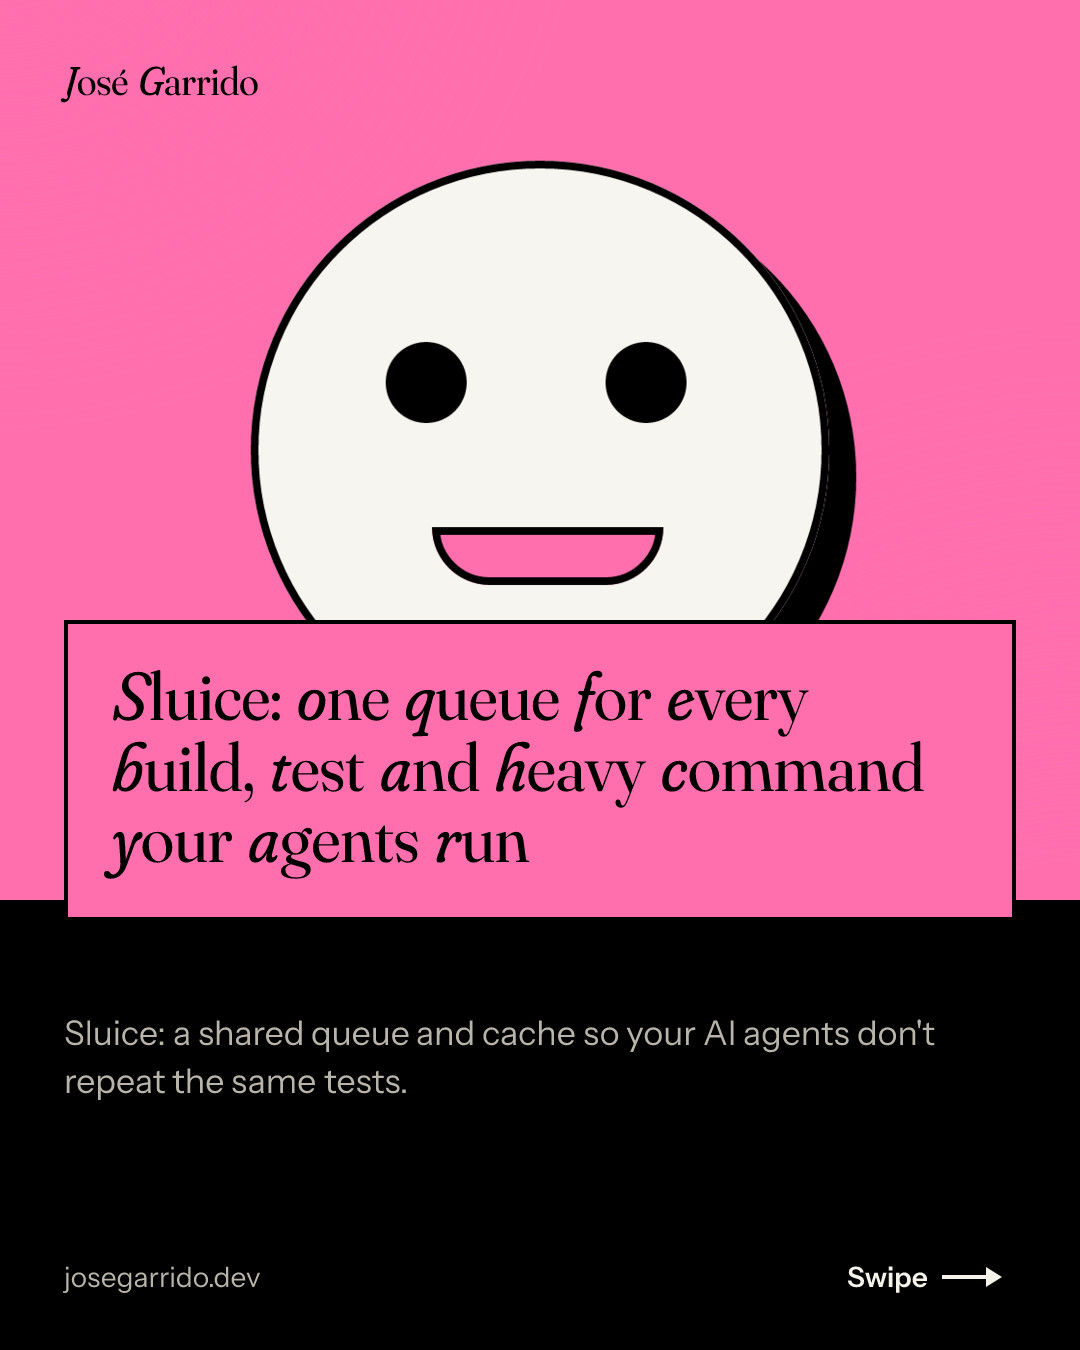
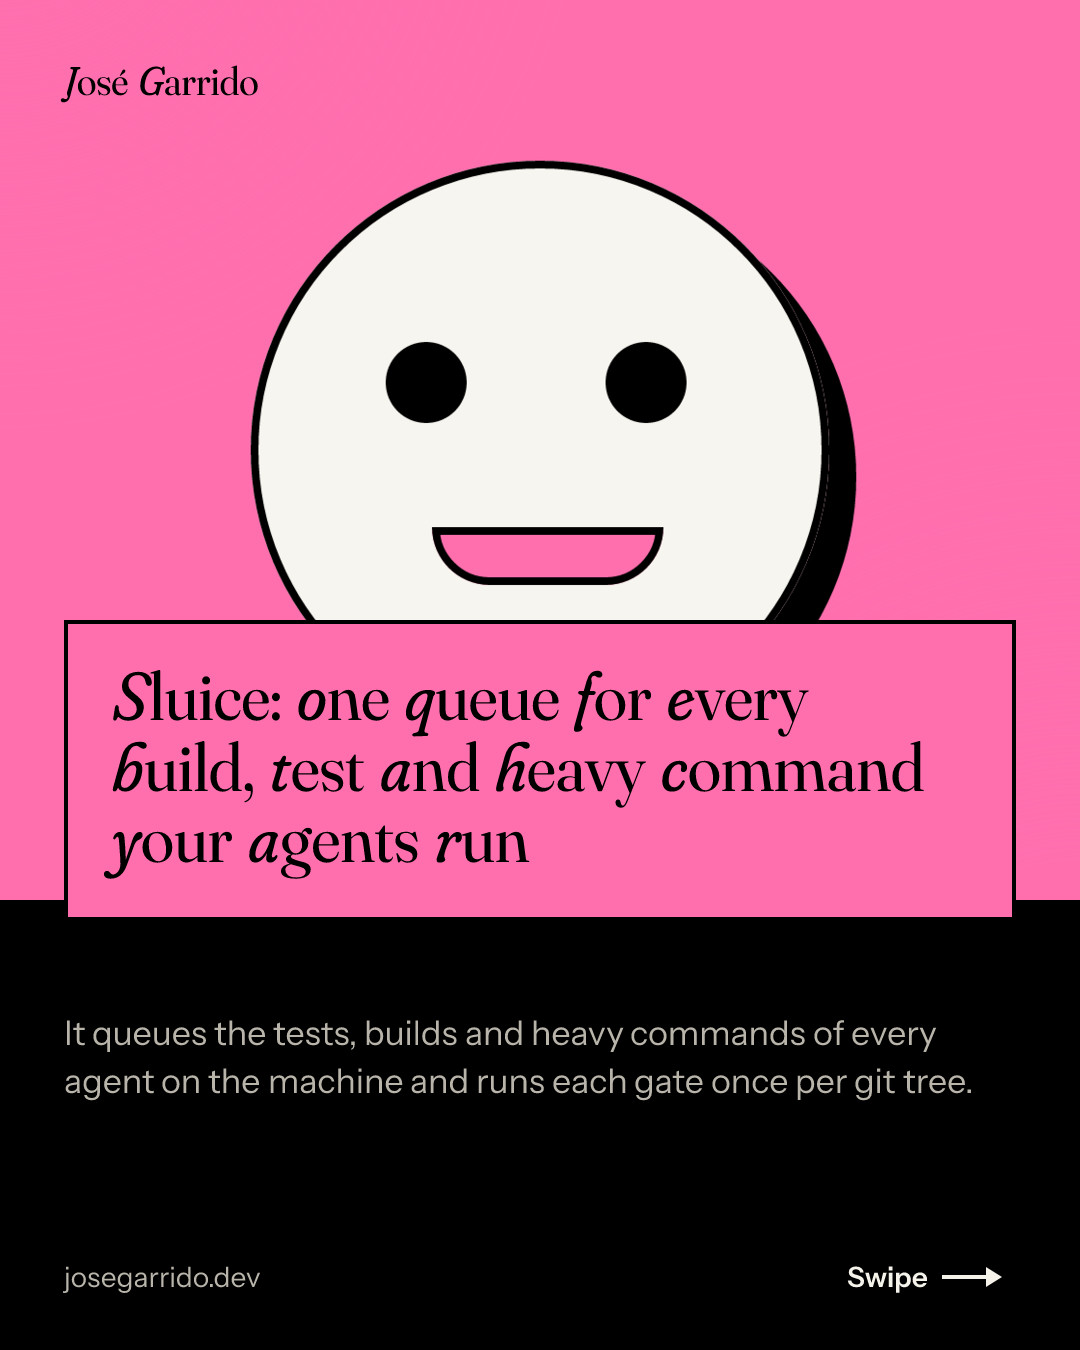
fix(article): the Sluice article opens with many agents in parallel, without Digio or the CI caveat
The "five agents, five suites at once" opener is gone from the posts, the
pack and every channel draft. The article, LinkedIn and the newsletters
open with working with several AI agents in parallel until the machine ran
out of memory; the short channels with the hidden cost of orchestrating
dozens of agents on one machine. The memory figures keep "with 5 agents
at once" where they are quoted.

The "doesn't replace your CI" line is removed everywhere, and the owner's
employer is no longer named. Channels that called Sluice a verification
queue and cache now say it queues the tests, builds and heavy commands of
every agent on the machine, and the channel posts quote backfilling as
about 4x less wait per minute of work (the article keeps its table).
Bluesky and Mastodon are trimmed to their limits. The Instagram cover and
the backfilling slide are re-rendered with Shipcast's renderer.

Changed region(s): [[0.0611, 0.7467, 0.8861, 0.8089]]

diff --git a/src/content/posts/es/sluice-una-cola-compartida-para-que-tus-agentes-no-repitan-los-tests.md b/src/content/posts/es/sluice-una-cola-compartida-para-que-tus-agentes-no-repitan-los-tests.md
@@ -15,9 +15,9 @@ imageAlt: "Salida de sluice status: 1.874 ejecuciones, 1.147 respuestas desde ca
 
 ## ¿Qué problema resuelve?
 
-Trabajo en Digio desarrollando software para clientes con agentes de IA. En un día normal tengo decenas de agentes a la vez (yo uso Claude Code), cada uno en su propio *worktree* de git, sobre proyectos con verificaciones caras: suites de tests de varios minutos, linters y *type checks* metidos en `pre-commit` y `pre-push`. Son hooks que define el equipo de cada proyecto y que no siempre puedo tocar.
+En mi trabajo desarrollo software para clientes con agentes de IA. En un día normal tengo decenas de agentes a la vez (yo uso Claude Code), cada uno en su propio *worktree* de git, sobre proyectos con verificaciones caras: suites de tests de varios minutos, linters y *type checks* metidos en `pre-commit` y `pre-push`. Son hooks que define el equipo de cada proyecto y que no siempre puedo tocar.
 
-Nada coordinaba a esos agentes. Cinco agentes eran cinco suites a la vez. La máquina se bloqueaba, los *pushes* tardaban una eternidad y los mismos tests se repetían sobre código que ya había pasado. Lo que me hizo decir "basta" fue ver el escritorio rendirse: GNOME dejaba de responder y Linux empezaba a matar procesos por su cuenta. El OOM killer del kernel se llevaba por delante el navegador y las aplicaciones, y `systemd-oomd`, las herramientas de los propios agentes.
+Nada coordinaba a esos agentes. Trabajando con varios agentes de IA en paralelo, mi máquina se pasaba el día ejecutando los mismos tests y builds una y otra vez, hasta quedarse sin memoria, y los *pushes* tardaban una eternidad. Lo que me hizo decir "basta" fue ver el escritorio rendirse: GNOME dejaba de responder y Linux empezaba a matar procesos por su cuenta. El OOM killer del kernel se llevaba por delante el navegador y las aplicaciones, y `systemd-oomd`, las herramientas de los propios agentes.
 
 Detrás había tres causas distintas:
 
@@ -182,8 +182,6 @@ sluice queue approve <tren>    # lo haces tú
 ```
 
 Por defecto, nada se empuja hasta que una persona aprueba el tren: el demonio rechaza la aprobación de un agente, por MCP o desde la terminal, y el plugin de Claude Code también se la bloquea. Puedes permitirla de forma explícita en tu configuración personal (`allow_agent_approval = true`); un repositorio no puede activarla por su cuenta. Aun así, dos casos siguen siendo solo humanos: un tren que cambia la propia configuración de verificación del proyecto y el aterrizaje mediante *pull request*. Si tu rama de destino está protegida y solo acepta *pull requests*, `[queue] land = "pull-request"` empuja el resultado verificado a una rama `sluice/train/<id>` y, al aprobar, abre el *pull request* con tu propio `gh`. Sluice nunca hace el merge.
-
-Y una cosa que conviene tener clara: Sluice no sustituye a tu CI. Una respuesta desde caché es una optimización local; el CI sigue siendo la autoridad.
 
 ## ¿Cómo lo construí?
 

diff --git a/src/content/posts/en/sluice-shared-queue-so-your-agents-stop-repeating-tests.md b/src/content/posts/en/sluice-shared-queue-so-your-agents-stop-repeating-tests.md
@@ -15,9 +15,9 @@ imageAlt: "Output of sluice status: 1,874 runs, 1,147 cache answers and 19 h 24 
 
 ## What problem does it solve?
 
-At Digio I build software for clients with AI agents. On a normal day I have dozens of agents running at once (I use Claude Code), each in its own git *worktree*, on projects with expensive checks: test suites that take several minutes, linters and type checks wired into `pre-commit` and `pre-push`. Those hooks are defined by each project's team and I can't always touch them.
+In my day job I build software for clients with AI agents. On a normal day I have dozens of agents running at once (I use Claude Code), each in its own git *worktree*, on projects with expensive checks: test suites that take several minutes, linters and type checks wired into `pre-commit` and `pre-push`. Those hooks are defined by each project's team and I can't always touch them.
 
-Nothing coordinated those agents. Five agents meant five suites at once. The machine froze, pushes took forever and the same tests ran again on code that had already passed. What made me say "enough" was watching the desktop give up: GNOME stopped responding and Linux started killing processes on its own. The kernel's OOM killer took out the browser and the applications, and `systemd-oomd` took out the agents' own tools.
+Nothing coordinated those agents. Working with several AI agents in parallel, my machine spent the day running the same tests and builds over and over, until it ran out of memory, and pushes took forever. What made me say "enough" was watching the desktop give up: GNOME stopped responding and Linux started killing processes on its own. The kernel's OOM killer took out the browser and the applications, and `systemd-oomd` took out the agents' own tools.
 
 There were three separate causes behind it:
 
@@ -182,8 +182,6 @@ sluice queue approve <train>   # you do this
 ```
 
 By default, nothing is pushed until a person approves the train: the daemon rejects an agent's approval, over MCP or from the terminal, and the Claude Code plugin blocks it too. You can allow it explicitly in your personal configuration (`allow_agent_approval = true`); a repository can't turn it on by itself. Even so, two cases remain human-only: a train that changes the project's own verification configuration and landing through a *pull request*. If your target branch is protected and only accepts *pull requests*, `[queue] land = "pull-request"` pushes the verified result to a `sluice/train/<id>` branch and, on approval, opens the *pull request* with your own `gh`. Sluice never does the merge.
-
-And one thing worth being clear about: Sluice doesn't replace your CI. A cache answer is a local optimization; CI remains the authority.
 
 ## How did I build it?
 

diff --git a/articles/sluice-una-cola-compartida-para-que-tus-agentes-no-repitan-los-tests/instagram.md b/articles/sluice-una-cola-compartida-para-que-tus-agentes-no-repitan-los-tests/instagram.md
@@ -4,10 +4,10 @@
 
 Carousel, from the images in `public/articles/sluice-una-cola-compartida-para-que-tus-agentes-no-repitan-los-tests/` (their texts are drawn into them; only the caption and the comment below can be edited here):
 
-1. Cover: Sluice: one queue for every build, test and heavy command your agents run. Sluice: a shared queue and cache so your AI agents don't repeat the same tests.
+1. Cover: Sluice: one queue for every build, test and heavy command your agents run. It queues the tests, builds and heavy commands of every agent on the machine and runs each gate once per git tree.
 2. Run each gate once: The cache key is the exact git tree plus the gate definition, shared by all worktrees. A cached typecheck answers in 0.22 s.
 3. Memory-aware scheduling: Sluice learns each gate's memory use, isolates jobs in cgroups and makes them the first victims if memory runs short.
-4. Backfilling the queue: Short jobs no longer wait behind a 12 GB suite: wait per minute of work dropped from 1.92 to 0.44 min.
+4. Backfilling the queue: Short jobs no longer wait behind a 12 GB suite: queue wait per minute of work dropped about 4x in my measurement.
 5. Closing: the full write-up is in my bio
 
 Story: the cover with "Link in bio" (the API cannot add a link sticker).
@@ -16,9 +16,9 @@ Comment: Full write-up: josegarrido.dev/en/sluice-shared-queue-so-your-agents-st
 
 ---
 
-Five agents, five test suites at once, and the same tests rerunning on code that already passed.
+Orchestrating dozens of AI agents on one machine has a hidden cost: each one runs its own tests, builds and hooks.
 
-Sluice is an open source queue and cache shared by every AI agent on a Linux machine. It runs each gate once per git tree, under a common CPU and memory budget, and works with any agent that supports MCP, with a plugin for Claude Code.
+Sluice is open source and queues the tests, builds and heavy commands of every AI agent on a Linux machine. It runs each gate once per git tree, under a common CPU and memory budget, and works with any agent that supports MCP, with a plugin for Claude Code.
 
 Link in bio.
 

diff --git a/articles/sluice-una-cola-compartida-para-que-tus-agentes-no-repitan-los-tests/linkedin.md b/articles/sluice-una-cola-compartida-para-que-tus-agentes-no-repitan-los-tests/linkedin.md
@@ -2,21 +2,21 @@
 
 > **Approval:** published when this pull request is merged. Edit it here if it needs changes.
 
-Cinco agentes de IA eran cinco suites de tests a la vez, y los mismos tests se repetían sobre código que ya había pasado.
+Trabajando con varios agentes de IA en paralelo, mi máquina se pasaba el día ejecutando los mismos tests y builds una y otra vez, hasta quedarse sin memoria.
 
-He publicado Sluice, una cola y una caché de verificación compartidas por todos los agentes de una máquina Linux.
+He publicado Sluice, que pone en una sola cola los tests, builds y comandos pesados de todos los agentes de una máquina Linux.
 
-Lo construí porque trabajo con decenas de agentes de IA a la vez, y la máquina acababa bloqueada: GNOME sin responder y el OOM killer matando procesos.
+Lo construí porque la máquina acababa bloqueada: GNOME sin responder y el OOM killer matando procesos.
 
 Lo que hace hoy:
 
 - Ejecuta cada gate (tests, linters, type checks) una sola vez por árbol de git y guarda el resultado. En mis dos equipos, unas 28 horas de verificaciones que no se ejecutaron en una semana.
 - Reparte un presupuesto común de CPU y memoria, con cada trabajo en su propio cgroup. Desde la 0.6.0, 0 episodios de falta de memoria en el segundo equipo en 2,5 días medidos.
-- Hace backfilling: la espera por minuto de trabajo pasó de 1,92 a 0,44 min.
+- Hace backfilling: la espera por minuto de trabajo bajó unas 4 veces en mi medición.
 - Marca como STALLED los trabajos colgados, sin matarlos.
 - Puede ser el punto de entrada de los hooks de husky sin tocar el repositorio.
 
-Es de código abierto (MIT), está escrito en Rust y funciona con cualquier agente que soporte MCP, con un plugin para Claude Code. No sustituye a tu CI.
+Es de código abierto (MIT), está escrito en Rust y funciona con cualquier agente que soporte MCP, con un plugin para Claude Code.
 
 En el artículo explico cómo se instala y los números medidos.
 

diff --git a/articles/sluice-una-cola-compartida-para-que-tus-agentes-no-repitan-los-tests/newsletter-en.md b/articles/sluice-una-cola-compartida-para-que-tus-agentes-no-repitan-los-tests/newsletter-en.md
@@ -7,11 +7,11 @@ Preview: Each gate runs once per git tree, under one CPU and memory budget. Abou
 
 Hi,
 
-I've just published Sluice, an open source tool I built because running many AI agents on one machine kept freezing it, and the same tests kept running on code that had already passed.
+Working with several AI agents in parallel, my machine spent the day running the same tests and builds over and over, until it ran out of memory. So I built Sluice, and I've just published it as open source.
 
-Sluice is a verification queue and cache shared by every agent on a Linux machine. Each gate runs once per git tree, under a common CPU and memory budget. On my two machines that meant about 28 hours of tests and linters that did not run in a week.
+Sluice queues the tests, builds and heavy commands of every agent on a Linux machine. Each gate runs once per git tree, under a common CPU and memory budget. On my two machines that meant about 28 hours of tests and linters that did not run in a week.
 
-In the article I cover how to connect it to your agent (Claude Code or any other that supports MCP), how it avoids running out of memory, how backfilling cut the wait per minute of work from 1.92 to 0.44 min, and how it works with husky hooks you can't edit. I also show the numbers and how I measured them.
+In the article I cover how to connect it to your agent (Claude Code or any other that supports MCP), how it avoids running out of memory, how backfilling made the queue wait per minute of work drop about 4x in my measurement, and how it works with husky hooks you can't edit. I also show the numbers and how I measured them.
 
 [Read the article](https://josegarrido.dev/en/sluice-shared-queue-so-your-agents-stop-repeating-tests/?ref=newsletter)
 

diff --git a/articles/sluice-una-cola-compartida-para-que-tus-agentes-no-repitan-los-tests/telegram.md b/articles/sluice-una-cola-compartida-para-que-tus-agentes-no-repitan-los-tests/telegram.md
@@ -2,13 +2,13 @@
 
 > **Approval:** published when this pull request is merged. Edit it here if it needs changes.
 
-🚦 Running several AI coding agents on one Linux machine? Sluice is a shared verification queue and cache.
+🚦 Orchestrating dozens of AI agents on one machine has a hidden cost: each one runs its own tests, builds and hooks. Sluice queues the tests, builds and heavy commands of every agent on the machine.
 
 ✅ Each gate (tests, linters, type checks) runs once per git tree
 🧠 One CPU and memory budget, each job in its own cgroup
-⏱ Backfilling: wait per minute of work went from 1.92 to 0.44 min
+⏱ Backfilling: queue wait per minute of work dropped about 4x in my measurement
 💾 About 28 hours of checks skipped in a week on my two machines
 
-Open source (MIT), written in Rust. Works with any agent that supports MCP, with a plugin for Claude Code. It doesn't replace your CI.
+Open source (MIT), written in Rust. Works with any agent that supports MCP, with a plugin for Claude Code.
 
 https://josegarrido.dev/en/sluice-shared-queue-so-your-agents-stop-repeating-tests/?ref=telegram

diff --git a/articles/sluice-una-cola-compartida-para-que-tus-agentes-no-repitan-los-tests/mastodon.md b/articles/sluice-una-cola-compartida-para-que-tus-agentes-no-repitan-los-tests/mastodon.md
@@ -2,10 +2,12 @@
 
 > **Approval:** published when this pull request is merged. Edit it here if it needs changes.
 
-Running several AI coding agents on one Linux box? Sluice is a shared verification queue and cache: each gate (tests, linters, type checks) runs once per git tree, under one CPU and memory budget.
+Orchestrating dozens of AI agents on one machine has a hidden cost: each one runs its own tests, builds and hooks.
 
-Open source, MIT, written in Rust. About 28 hours of checks skipped in a week on my two machines.
+Sluice queues the tests, builds and heavy commands of every agent on the machine, under one CPU and memory budget, and runs each gate once per git tree.
+
+Open source, MIT, in Rust. About 28 hours of checks skipped in a week on my two machines.
 
 https://josegarrido.dev/en/sluice-shared-queue-so-your-agents-stop-repeating-tests/?ref=mastodon
 
-#Rust #ClaudeCode #AIAgents #OpenSource #DevTools
+#Rust #ClaudeCode #AIAgents #OpenSource

diff --git a/articles/sluice-una-cola-compartida-para-que-tus-agentes-no-repitan-los-tests/threads.md b/articles/sluice-una-cola-compartida-para-que-tus-agentes-no-repitan-los-tests/threads.md
@@ -2,6 +2,6 @@
 
 > **Approval:** published when this pull request is merged. Edit it here if it needs changes.
 
-I run dozens of AI coding agents at once, and for a while they kept freezing my machine while rerunning the same tests on code that had already passed. So I built Sluice: a shared queue and cache where each gate runs once per git tree. About 28 hours of checks skipped in a week. 🚦
+Orchestrating dozens of AI agents on one machine has a hidden cost: each one runs its own tests, builds and hooks. For a while they kept freezing my machine, so I built Sluice: one queue for the tests, builds and heavy commands of every agent on the machine, where each gate runs once per git tree. About 28 hours of checks skipped in a week. 🚦
 
 https://josegarrido.dev/en/sluice-shared-queue-so-your-agents-stop-repeating-tests/?ref=threads

diff --git a/articles/sluice-una-cola-compartida-para-que-tus-agentes-no-repitan-los-tests/discord.md b/articles/sluice-una-cola-compartida-para-que-tus-agentes-no-repitan-los-tests/discord.md
@@ -4,9 +4,9 @@
 
 **Sluice: one queue for every build, test and heavy command your agents run** 🚦
 
-If you run several AI coding agents on one Linux machine, you know the pain: five agents, five test suites at once, and the same tests rerunning on code that already passed.
+Orchestrating dozens of AI agents on one machine has a hidden cost: each one runs its own tests, builds and hooks.
 
-Sluice is a verification queue and cache shared by all the agents on the machine. It's open source (MIT) and written in Rust.
+Sluice queues the tests, builds and heavy commands of every agent on the machine. It's open source (MIT) and written in Rust.
 
 • Each gate (tests, linters, type checks) runs once per git tree and the result is cached
 • One CPU and memory budget, with each job in its own cgroup

diff --git a/articles/sluice-una-cola-compartida-para-que-tus-agentes-no-repitan-los-tests/bluesky.md b/articles/sluice-una-cola-compartida-para-que-tus-agentes-no-repitan-los-tests/bluesky.md
@@ -2,4 +2,4 @@
 
 > **Approval:** published when this pull request is merged. Edit it here if it needs changes.
 
-Five agents meant five test suites at once. Sluice is a shared queue + cache: each gate runs once per git tree. About 28 h of checks skipped in a week. https://josegarrido.dev/en/sluice-shared-queue-so-your-agents-stop-repeating-tests/?ref=bluesky
+Orchestrating dozens of AI agents on one machine has a hidden cost: each one runs its own tests, builds and hooks. Sluice queues them and runs each gate once per git tree: ~28 h of checks saved in a week. https://josegarrido.dev/en/sluice-shared-queue-so-your-agents-stop-repeating-tests/?ref=bluesky
